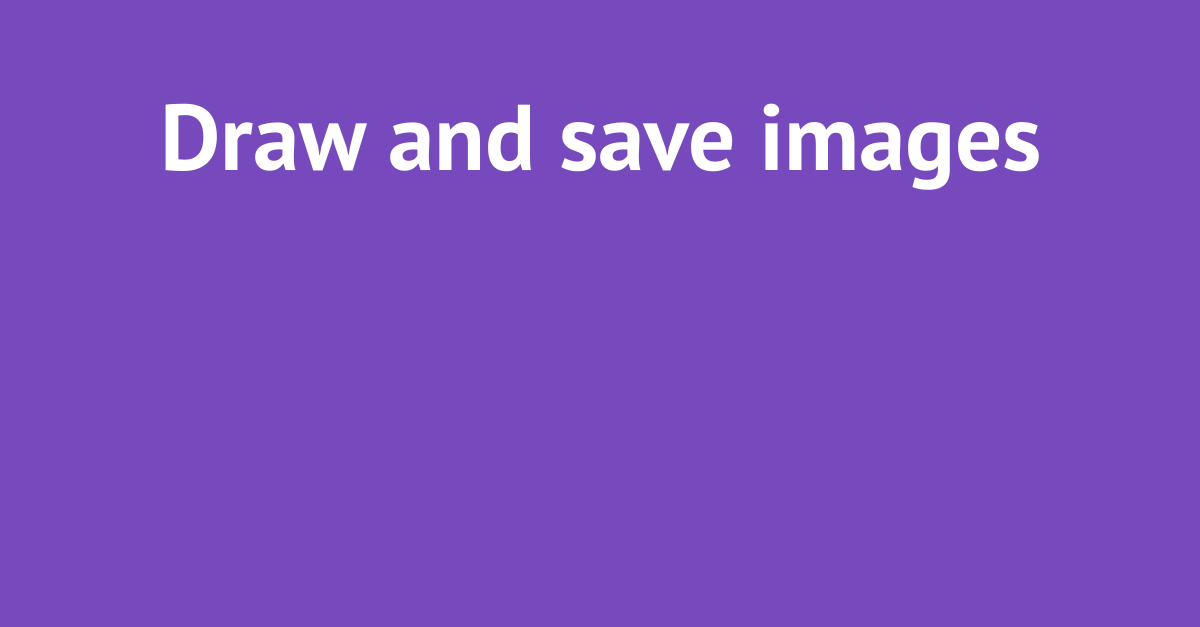
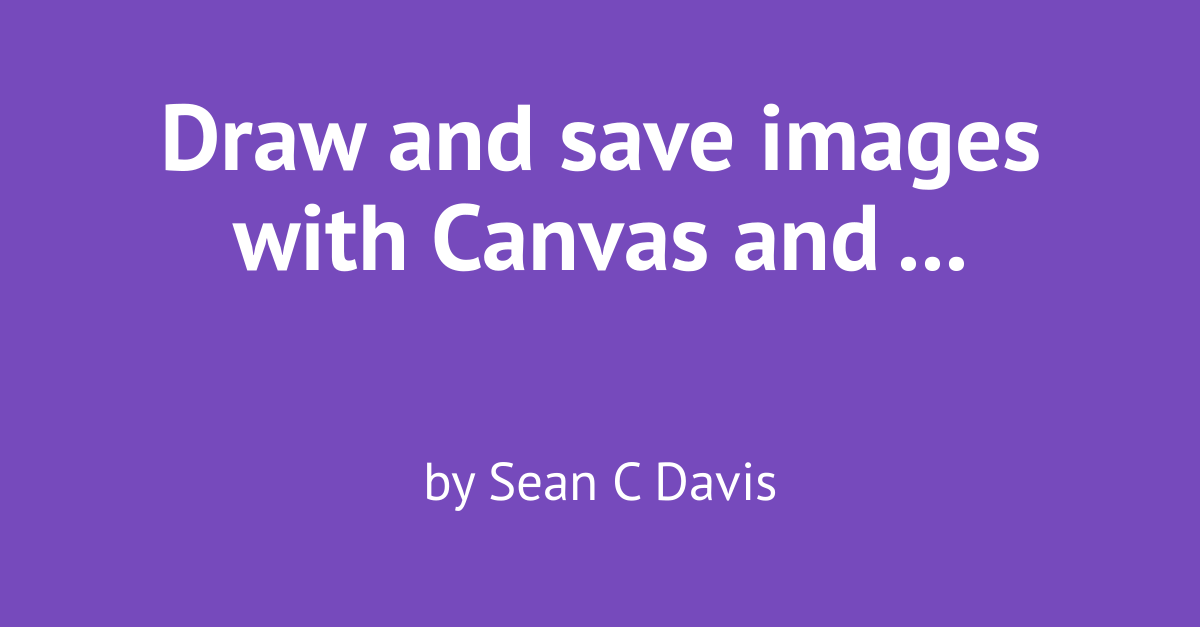
Add byline

Changed region(s): [[0.185, 0.303, 0.8017, 0.4545], [0.3392, 0.7273, 0.6475, 0.8182]]

diff --git a/examples/generate-meta-images/generate-image.js b/examples/generate-meta-images/generate-image.js
@@ -4,13 +4,15 @@ const fs = require("fs");
 const { formatTitle } = require("./utils/format-title");
 
 const post = {
-  title: "Draw and save images",
+  title: "Draw and save images with Canvas and Node",
+  author: "Sean C Davis",
 };
 
 const width = 1200;
 const height = 627;
 const titleY = 170;
 const lineHeight = 100;
+const authorY = 500;
 
 const canvas = createCanvas(width, height);
 const context = canvas.getContext("2d");
@@ -25,6 +27,9 @@ context.fillStyle = "#fff";
 const text = formatTitle(post.title);
 context.fillText(text[0], 600, titleY);
 if (text[1]) context.fillText(text[1], 600, titleY + lineHeight);
+
+context.font = "40pt 'PT Sans'";
+context.fillText(`by ${post.author}`, 600, authorY);
 
 const buffer = canvas.toBuffer("image/png");
 fs.writeFileSync("./image.png", buffer);
